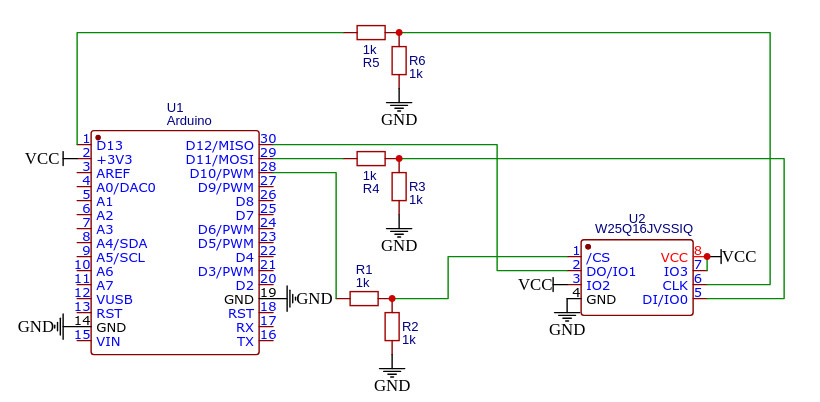
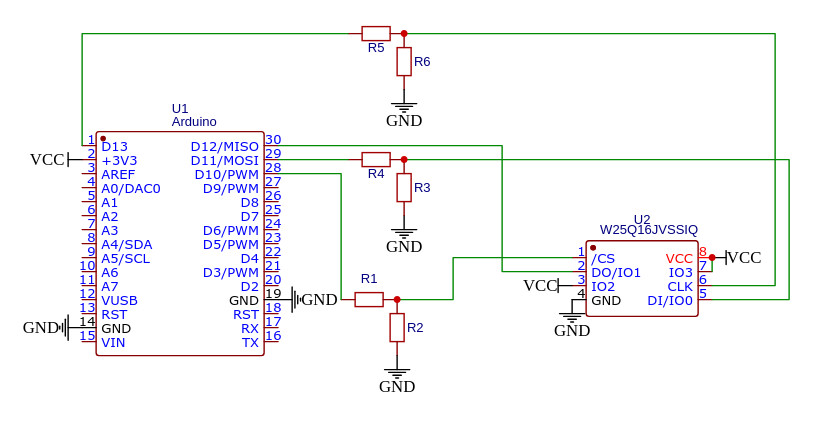
fix direct read

Changed region(s): [[0.0305, 0.0597, 0.9756, 0.9851]]

diff --git a/direct_read/README.md b/direct_read/README.md
@@ -1,6 +1,9 @@
 # Считывание прошивки напрямую с Flash-памяти
 ![подключение](https://github.com/trimesh33/r3dc4t/blob/main/direct_read/img1.jpg)
 
+Выпаяли флешку W25Q16JV с платы и припаяли лакированным проводом 0.2мм к Arduino.
+![кишки](https://github.com/trimesh33/r3dc4t/blob/main/direct_read/img2.jpg)
+
 [Исходный код](https://github.com/trimesh33/r3dc4t/blob/main/direct_read/direct_read.ino)
 
 # Подключение
